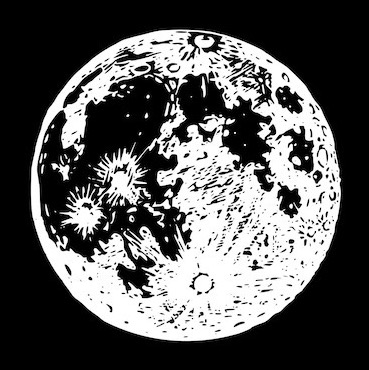
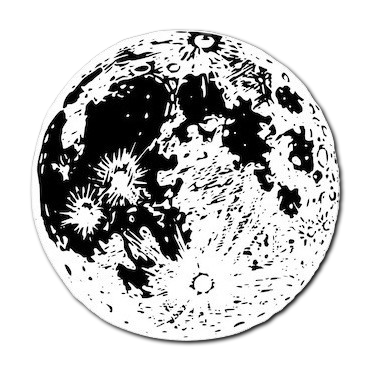
아이콘변경, 프로젝트 내용 추가

diff --git a/src/data/projectData.ts b/src/data/projectData.ts
@@ -13,6 +13,26 @@ export const projectTags: ITags = {
 // 프로젝트 데이터
 export const projectData: IProjectData[] = [
   {
+    title: "CMSPP (CM Solar Power Plant)",
+    where: "개인 프로젝트",
+    when: "2024.06 ~ 진행 중",
+    sub: "태양광 발전 정보 저장/관리 사이트",
+    exp: [
+      "코딩에 관심을 두게 했던, 태양광 데이터 저장/관리를 위한 사이트를 제작 중입니다.",
+      "회원가입/로그인의 간편화와 보안을 위해 소셜로그인 기능을 사용했습니다.",
+      "보안을 위해 refeshToken과 accessToken 기능을 사용했습니다.",
+    ],
+    site: {
+      selectOptions: [
+        {
+          name: "CMSPP 개발일지",
+          url: "https://springdream0406.tistory.com/category/Projects/CMSPP%28CM%20Solar%20Power%20Plant%29",
+        },
+      ],
+    },
+    category: ["personal", "p2024"],
+  },
+  {
     title: "팜팜 서버 교체2",
     where: "개인 프로젝트",
     when: "2024.04 ~ 2024.05 (약 2주)",

diff --git a/src/data/homeData.ts b/src/data/homeData.ts
@@ -12,7 +12,7 @@ import { playgroundData } from "./playgroundData";
 export const noticeTitles = [
   { title: "뮤직플레이어에 관하여", path: 3, date: "2024-05-25" },
   { title: "데이터에 관하여", path: 2, date: "2024-05-24" },
-  { title: "업데이트 정보", path: 1, date: "2024-06-07" },
+  { title: "업데이트 정보", path: 1, date: "2024-06-16" },
   { title: "환영합니다", path: 0, date: "2024-05-24" },
 ];
 
@@ -46,6 +46,11 @@ export const updateVersionData = [
   {
     title: "- 2.0.0",
     sub: [
+      {
+        version: "- 2.2.1",
+        change: "아이콘추가, 프로젝트 업데이트",
+        date: "2024-06-16",
+      },
       {
         version: "- 2.2.0",
         change: "정식 배포",
